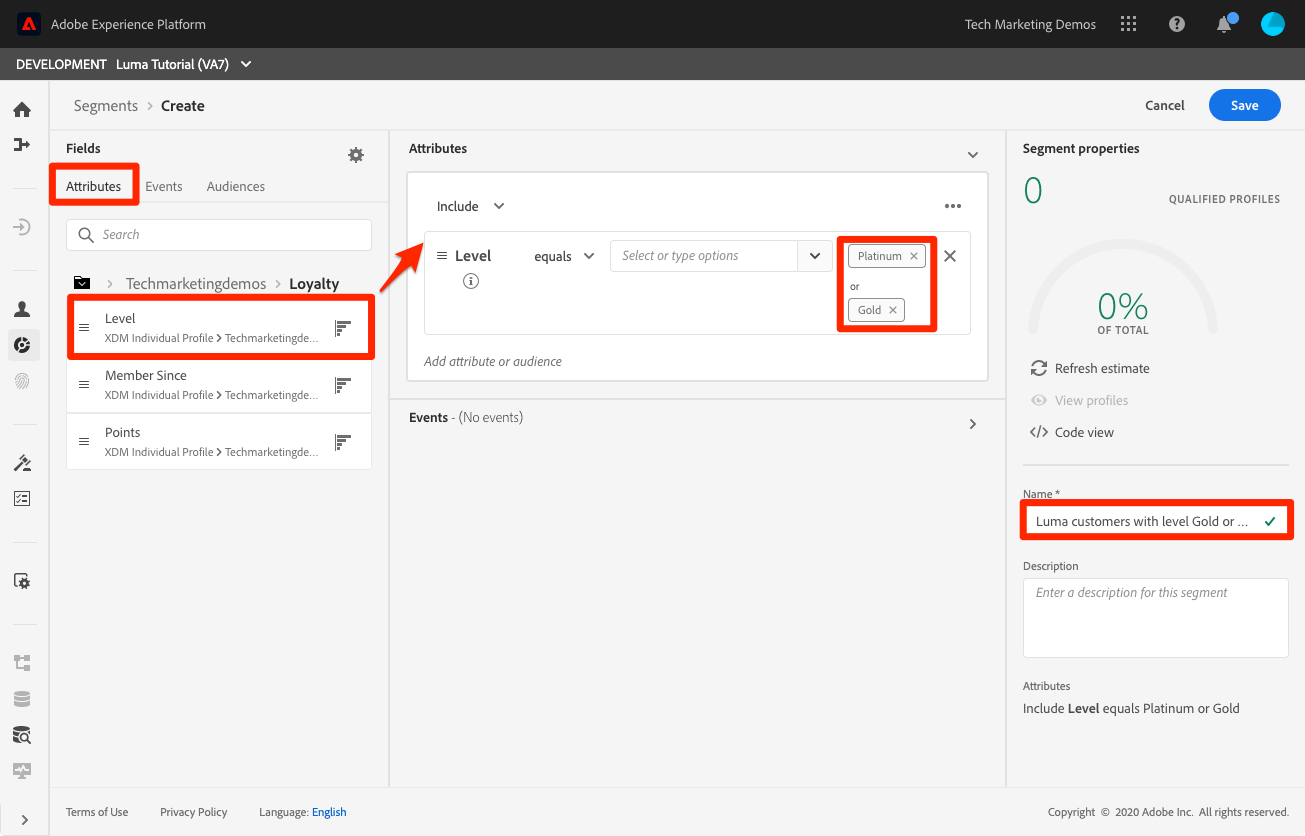
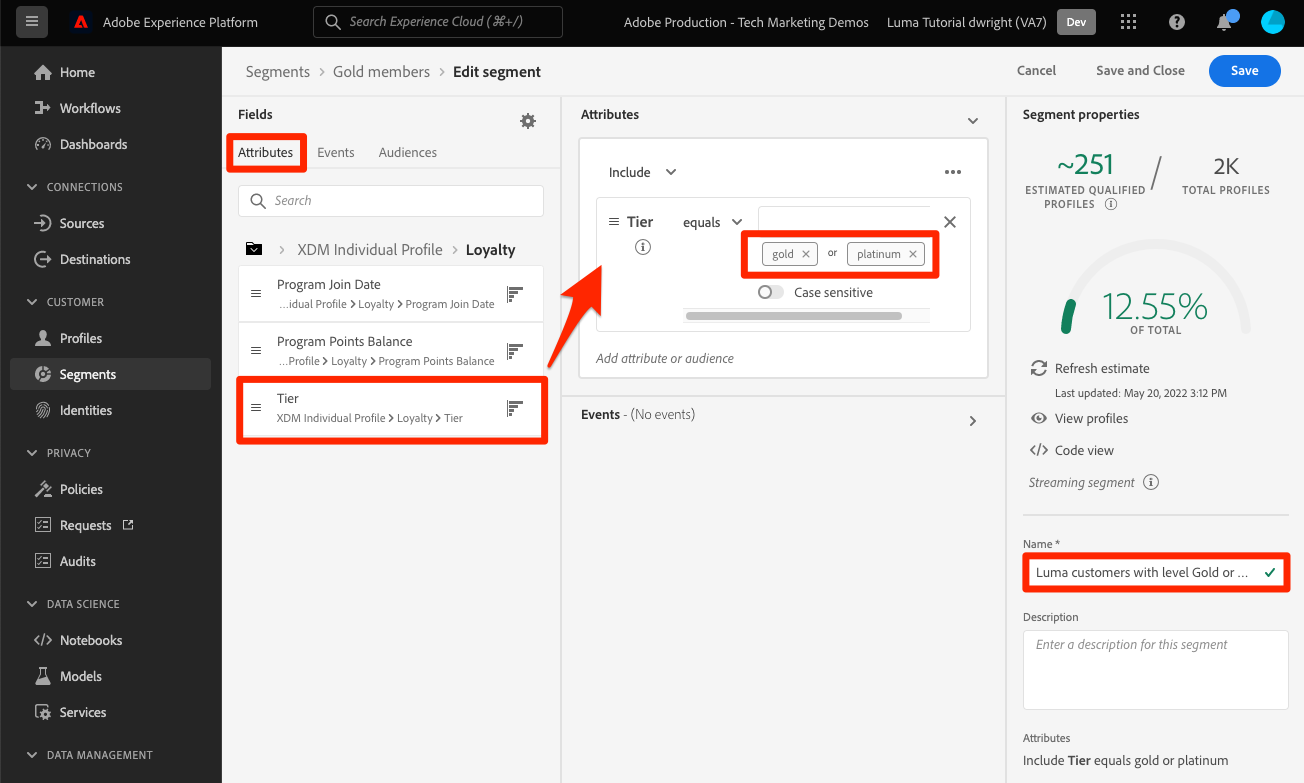
updates to segments, overview, and permissions

diff --git a/help/tutorial-data-architect-and-engineer/configure-permissions.md b/help/tutorial-data-architect-and-engineer/configure-permissions.md
@@ -15,7 +15,7 @@ exl-id: ca01f99e-f10c-4bf0-bef2-b011ac29a565
 
 In this lesson, you will configure Adobe Experience Platform user permissions using [!DNL Adobe's Admin Console]. 
 
-Access control is a key privacy capability in Experience Platform and we recommend limiting permissions to the minimum required for people to perform their job functions. 
+Access control is a key privacy capability in Experience Platform and we recommend limiting permissions to the minimum required for people to perform their job functions. See the [Access Control documentation](https://experienceleague.adobe.com/docs/experience-platform/access-control/home.html) for more information.
 
 Data Architects and Data Engineers are  power users of Adobe Experience Platform and you will need many permissions in order to complete this tutorial and later in your day-to-day work. Data Architects are likely be involved in the administration of *other Platform users* at their company such as marketers, analysts, and data scientists. As you complete this lesson, think about how you might use these features to manage other users at your company.
 
@@ -27,7 +27,7 @@ Data Architects and Data Engineers are  power users of Adobe Experience Platform
 
 ## About the Admin Console
 
-The [!DNL Admin Console] is the interface used to administer user access to all Adobe Experience Cloud products. Some key [!DNL Admin Console] concepts to be aware of:
+The [!DNL Admin Console] is the interface used to administer user access to all Adobe Experience Cloud products. See [Adobe Admin Console documentation](https://helpx.adobe.com/enterprise/using/admin-console.html) for more detailed information. Here are some key [!DNL Admin Console] concepts:
 
 * A **product profile** is a combination of permissions, roles, and sandbox environments tied to a specific Adobe product. Multiple product profiles can be created for a single Adobe product. For example, a "Marketer" profile could limit permissions to what a typical marketer would need to complete key tasks in the production Platform environment, while a "Data Architect" profile could be used to grant different permissions in multiple Platform environments. In this lesson, you will create a "Luma Tutorial" product profile with all the permissions a Data Architect and Data Engineer would need to complete this tutorial in a sandbox environment. 
 * An **integration** is a connection to a _project_ in the Adobe Developer Console. The Adobe Developer Console is the heart of authentication and configuration of Adobe APIs. You will configure an integration in the Developer Console and [!DNL Postman] lesson.
@@ -60,7 +60,7 @@ To create the product profile:
 1. Depending on the details of your product license, you may or may not see this second **[!UICONTROL Services]** screen. We will not be using any of these services in this tutorial, so uncheck **[!UICONTROL Enable all services]** to *remove* all services and select **[!UICONTROL Save]**.
     ![Disable services](assets/adminconsole-createProfile-services.png)
 
-Now, add the tutorial participant as an admin of the newly created product profile. If _you_ are the tutorial participant, skip ahead to [Configure Experience Platform product profile](#configure-the-launch-product-profile):
+Now, add the tutorial participant as an admin of the newly created product profile. If _you_ are the tutorial participant, skip ahead to [Configure Experience Platform product profile](#configure-experience-platform-product-profile):
 
 1. Select the `Luma Tutorial Platform` product profile:
    
@@ -86,12 +86,13 @@ Now you will add the individual permission items to the profile:
 1. Open the `Luma Tutorial Platform` product profile
 1. Select the **[!UICONTROL Permissions]** tab
 1. Under **[!UICONTROL Sandboxes]**, add the **[!UICONTROL Prod]** sandbox to the profile. It is necessary to have access to the [!DNL Prod] sandbox in order to create additional sandboxes. Once we have added the tutorial sandbox in the next lesson, we will remove the [!DNL Prod] sandbox from the product profile.
-1. Add all of the permission items for the categories highlighted in the screenshot below ([!UICONTROL Data Modeling], [!UICONTROL Data Management], [!UICONTROL Profile Management], [!UICONTROL Identity Management], [!UICONTROL Sandbox Administration], [!UICONTROL Data Ingestion], [!UICONTROL Query Service], [!UICONTROL Data Governance], [!UICONTROL Dashboards], and [!UICONTROL Alerts]), by opening a category and moving the items to the right column. 
+1. Under [!UICONTROL Data Ingestion], add the [!UICONTROL Manage Sources] and [!UICONTROL View Sources] permission items.
+1. Add all of the permission items for the categories highlighted in the screenshot below ([!UICONTROL Data Modeling], [!UICONTROL Data Management], [!UICONTROL Profile Management], [!UICONTROL Identity Management], [!UICONTROL Sandbox Administration], [!UICONTROL Query Service], [!UICONTROL Data Governance], [!UICONTROL Dashboards], and [!UICONTROL Alerts]), by opening a category and moving the items to the right column. 
 
 1. After adding all of the permission items, be sure to select the **[!UICONTROL Save]** button
 
 After saving, your screen should look like this:
-![Interface showing the product one [!UICONTROL Sandbox] included and all permissions for [!UICONTROL Data Modeling], [!UICONTROL Data Management], [!UICONTROL Profile Management], [!UICONTROL Identity Management], [!UICONTROL Sandbox Administration], [!UICONTROL Data Ingestion], [!UICONTROL Query Service], [!UICONTROL Data Governance], [!UICONTROL Dashboards], and [!UICONTROL Alerts]](assets/adminconsole-platform-enablePermissions.png)
+![Interface showing the Prod [!UICONTROL Sandbox] included,  [!UICONTROL Manage Sources] and [!UICONTROL View Sources] permission items in the [!UICONTROL Data Ingestion] section and all permissions for [!UICONTROL Data Modeling], [!UICONTROL Data Management], [!UICONTROL Profile Management], [!UICONTROL Identity Management], [!UICONTROL Sandbox Administration], [!UICONTROL Query Service], [!UICONTROL Data Governance], [!UICONTROL Dashboards], and [!UICONTROL Alerts]](assets/adminconsole-platform-enablePermissions.png)
 
 ### Add yourself as a user
 
@@ -170,11 +171,5 @@ Now add yourself as a user to the Launch profile:
 1. Complete the workflow to add yourself as a user to the product profile
 
 You do not need to add yourself as a Developer for Launch.
-
-## Additional Resources
-
-* [Adobe Admin Console documentation](https://helpx.adobe.com/enterprise/using/admin-console.html)
-* [Access Control documentation](https://experienceleague.adobe.com/docs/experience-platform/access-control/home.html)
-* [Access Control API](https://www.adobe.io/experience-platform-apis/references/access-control/)
 
 Now you have almost all the permissions required to complete the tutorial! There will be just two more tweaks that you will make inside the [!DNL Adobe Admin Console], including one after you [create a sandbox](create-a-sandbox.md)!

diff --git a/help/tutorial-data-architect-and-engineer/build-segments.md b/help/tutorial-data-architect-and-engineer/build-segments.md
@@ -39,15 +39,14 @@ Let's create a simple segment for loyalty program customers with a Gold or Plati
 1. In the Platform user interface, go to **[!UICONTROL Segments]** in the left navigation
 1. Select the **[!UICONTROL Create segment]** button 
 1. On the left of the schema builder are three tabs for Attributes (Record data), Events (Time-series data), and Audiences
-1. If you select the gear icon, the segment builder defaults to only showing you fields with data and that you can also choose different merge policies for your segments
-1. In Attributes tab, navigate to the **XDM Individual Profile > YOUR_TENANT_ID > Loyalty** folder (you could also search for "loyalty")
-1. Drag and drop, `Level` from the attribute fields menu to the segment builder canvas 
-1. Select `Level` equals `Gold` or `Platinum`
+1. Select the gear icon to note how the segment builder defaults to only show you fields with data and allows you to change the merge policy
+1. In Attributes tab, navigate to the **XDM Individual Profile > Loyalty** folder (you could also search for "loyalty")
+1. Drag and drop, `Tier` from the attribute fields menu to the segment builder canvas 
+1. Select `Tier` equals `Gold` or `Platinum`
+1. Select **[!UICONTROL Refresh estimate]** to see how many profiles qualify for your segment
 1. As the **[!UICONTROL Name]**, enter `Luma customers with level Gold or Above`
 1. Select **[!UICONTROL Save]**
    ![Segment](assets/segment-goldOrAbove.png)
-1. In a few minutes, you should see an estimate of existing customers qualifying for this segment
-   ![Segment size estimate](assets/segment-goldOrAbove-estimate.png)
 
 <!--## Build a sequential segment-->
 

diff --git a/help/tutorial-data-architect-and-engineer/overview.md b/help/tutorial-data-architect-and-engineer/overview.md
@@ -26,10 +26,10 @@ Topics include:
 * Configuring user permissions
 * Creating sandboxes
 * Setting up a Developer Console project and using the Platform API
-* Data management, including creating schemas, datasets, identities, merge policies, and data governance
+* Data management&mdash;including creating schemas, datasets, identities, merge policies, and data governance
 * Data ingestion using batch and streaming modes
 * Capturing web data with Adobe Experience Platform Web SDK
-* Combining data sources into Real-time Customer Profiles via identity stitching
+* Building Real-time Customer Profiles
 * Using Query Service to validate data and extract data
 * Building segments
 
@@ -40,8 +40,8 @@ Adobe Experience Platform is a technical platform designed to help you achieve m
 ## Pre-requisites
 
 * You have completed the [Introduction to Adobe Experience Platform course](https://experienceleague.adobe.com/?recommended=ExperiencePlatform-U-1-2020.1) on Experience League and are familiar with Platform capabilities
-* You have access to an account provisioned with Adobe Experience Platform and Data Collection (formerly Launch).  
-* You are a System Administrator of that account or can have one complete several tasks in the [Configure Permissions](configure-permissions.md) lesson.
+* You have access to an account provisioned with Adobe Experience Platform (or a Platform-based application such as Real-time CDP or Journey Optimizer) and Data Collection (formerly Launch).  
+* You are a System Administrator of that account or can have one [configure user permissions](configure-permissions.md) for you.
 
 ## Using this tutorial
 
